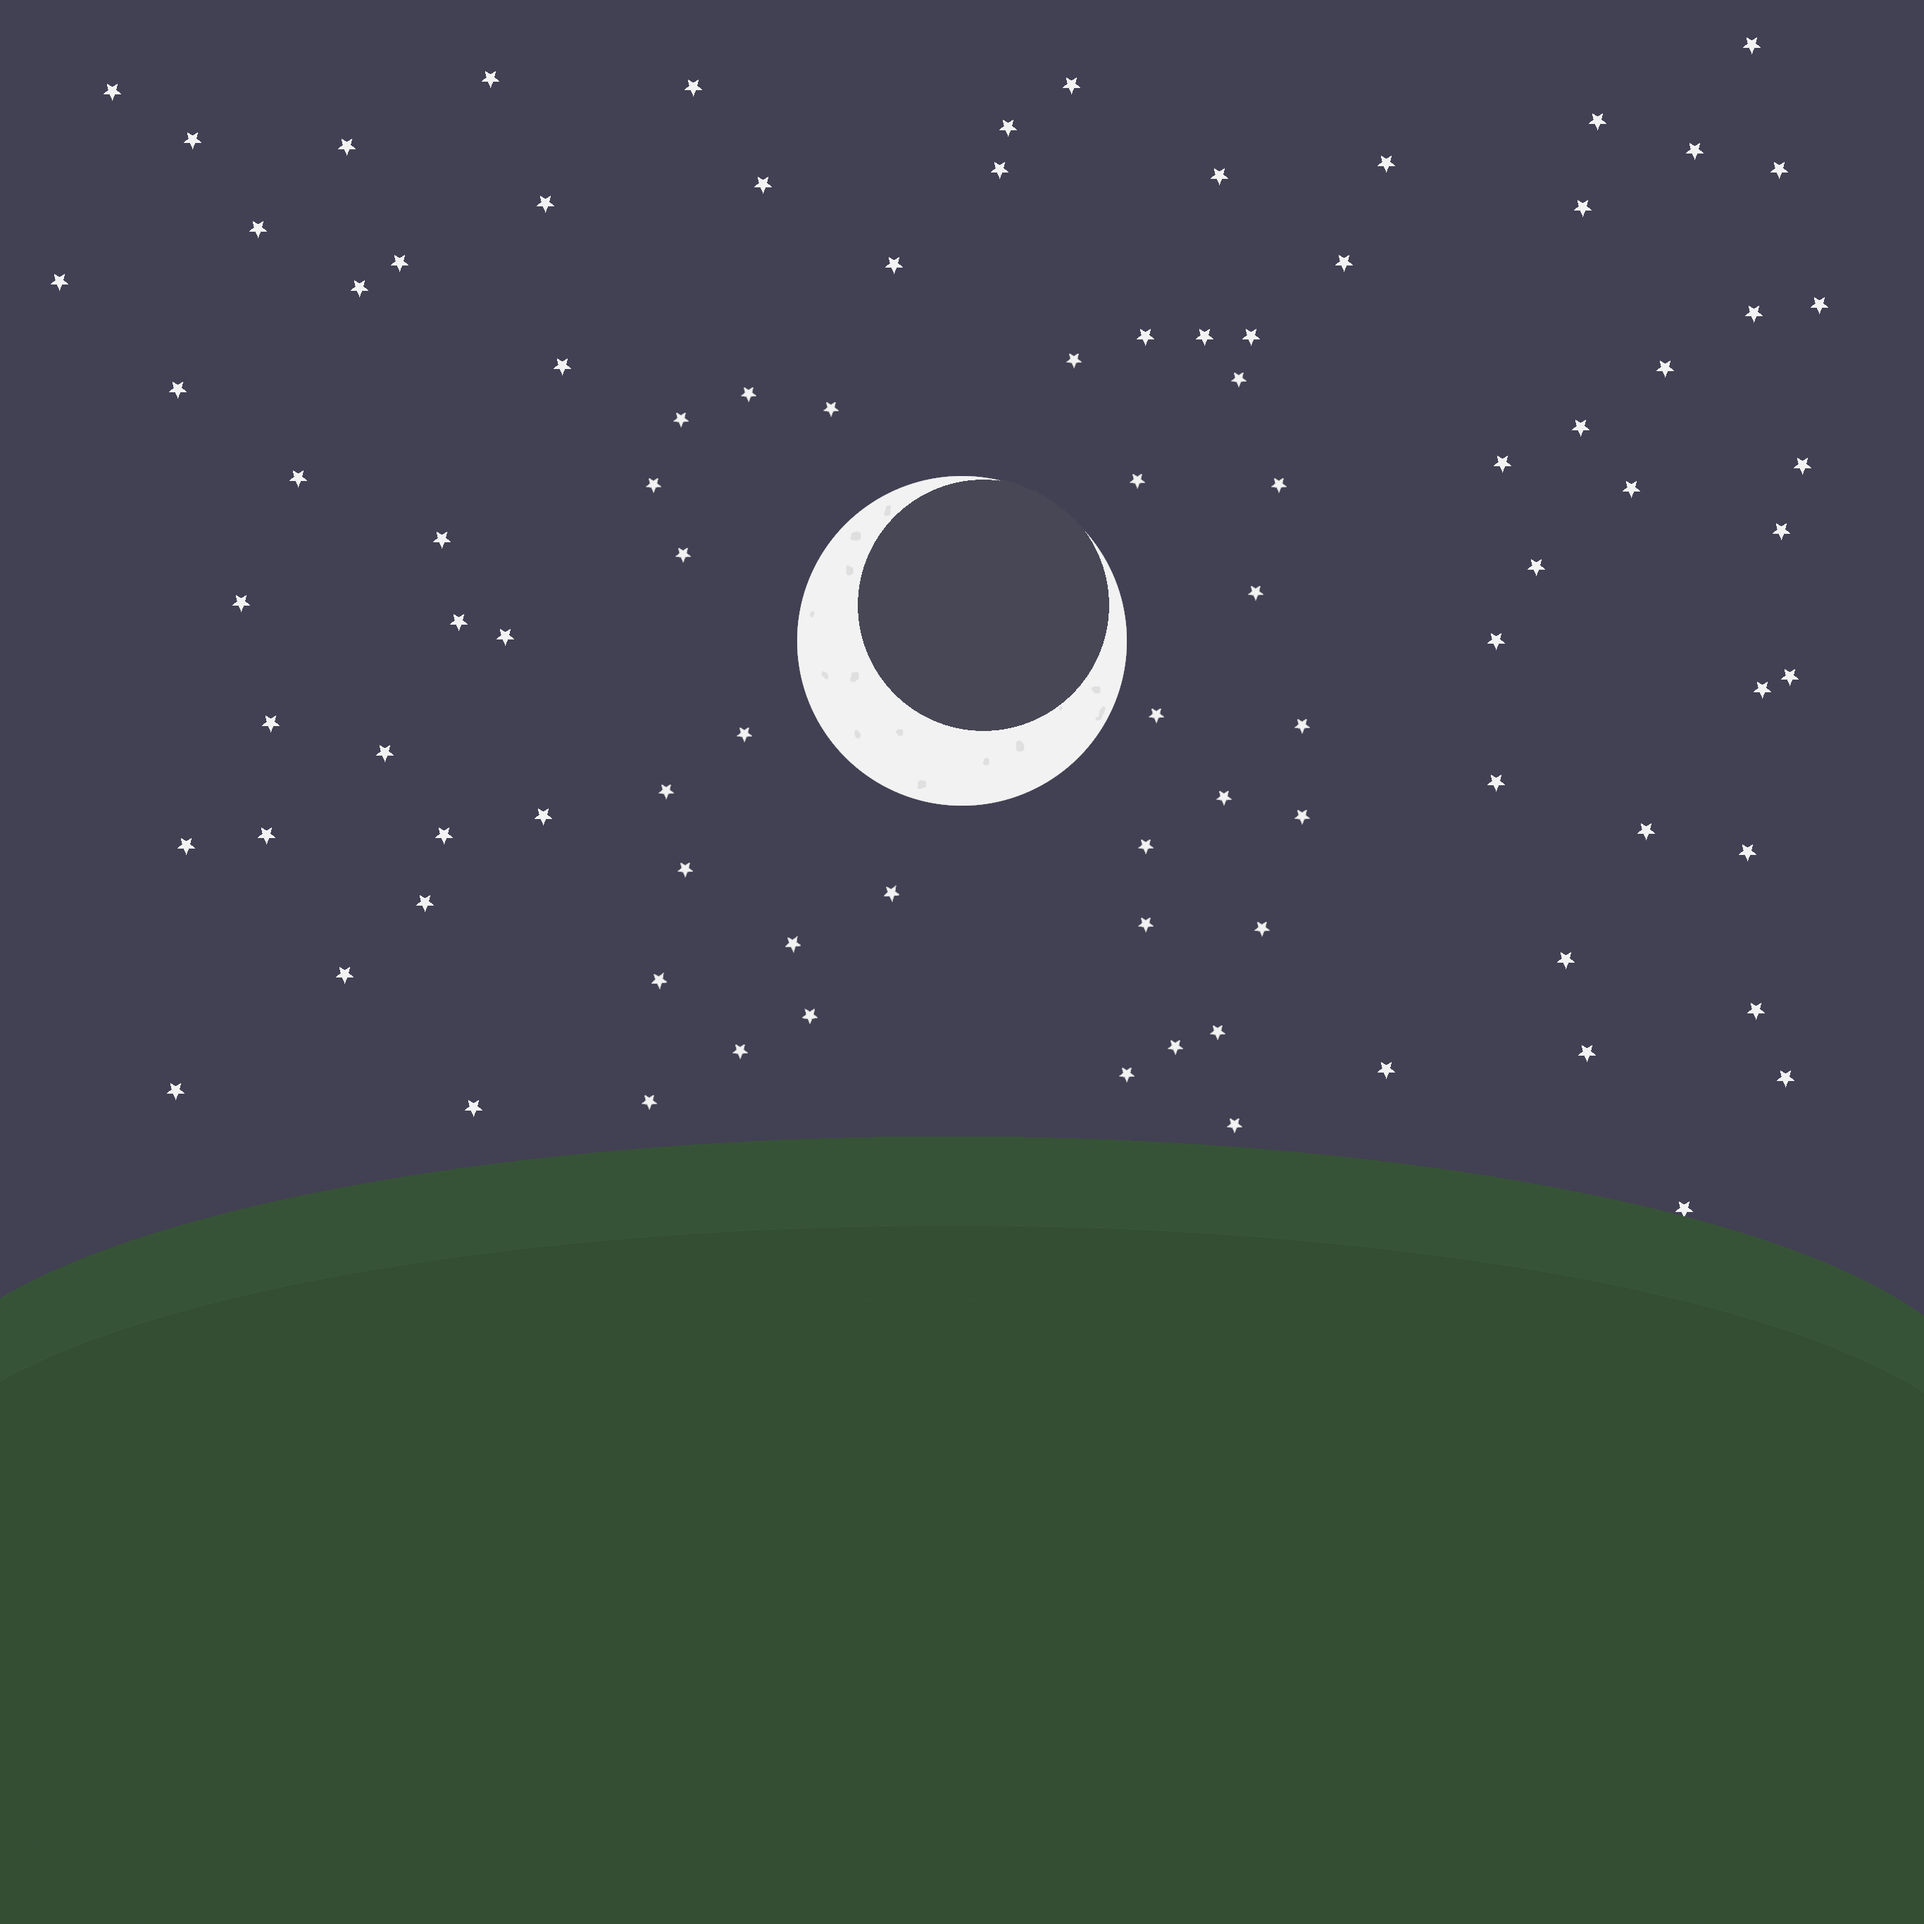
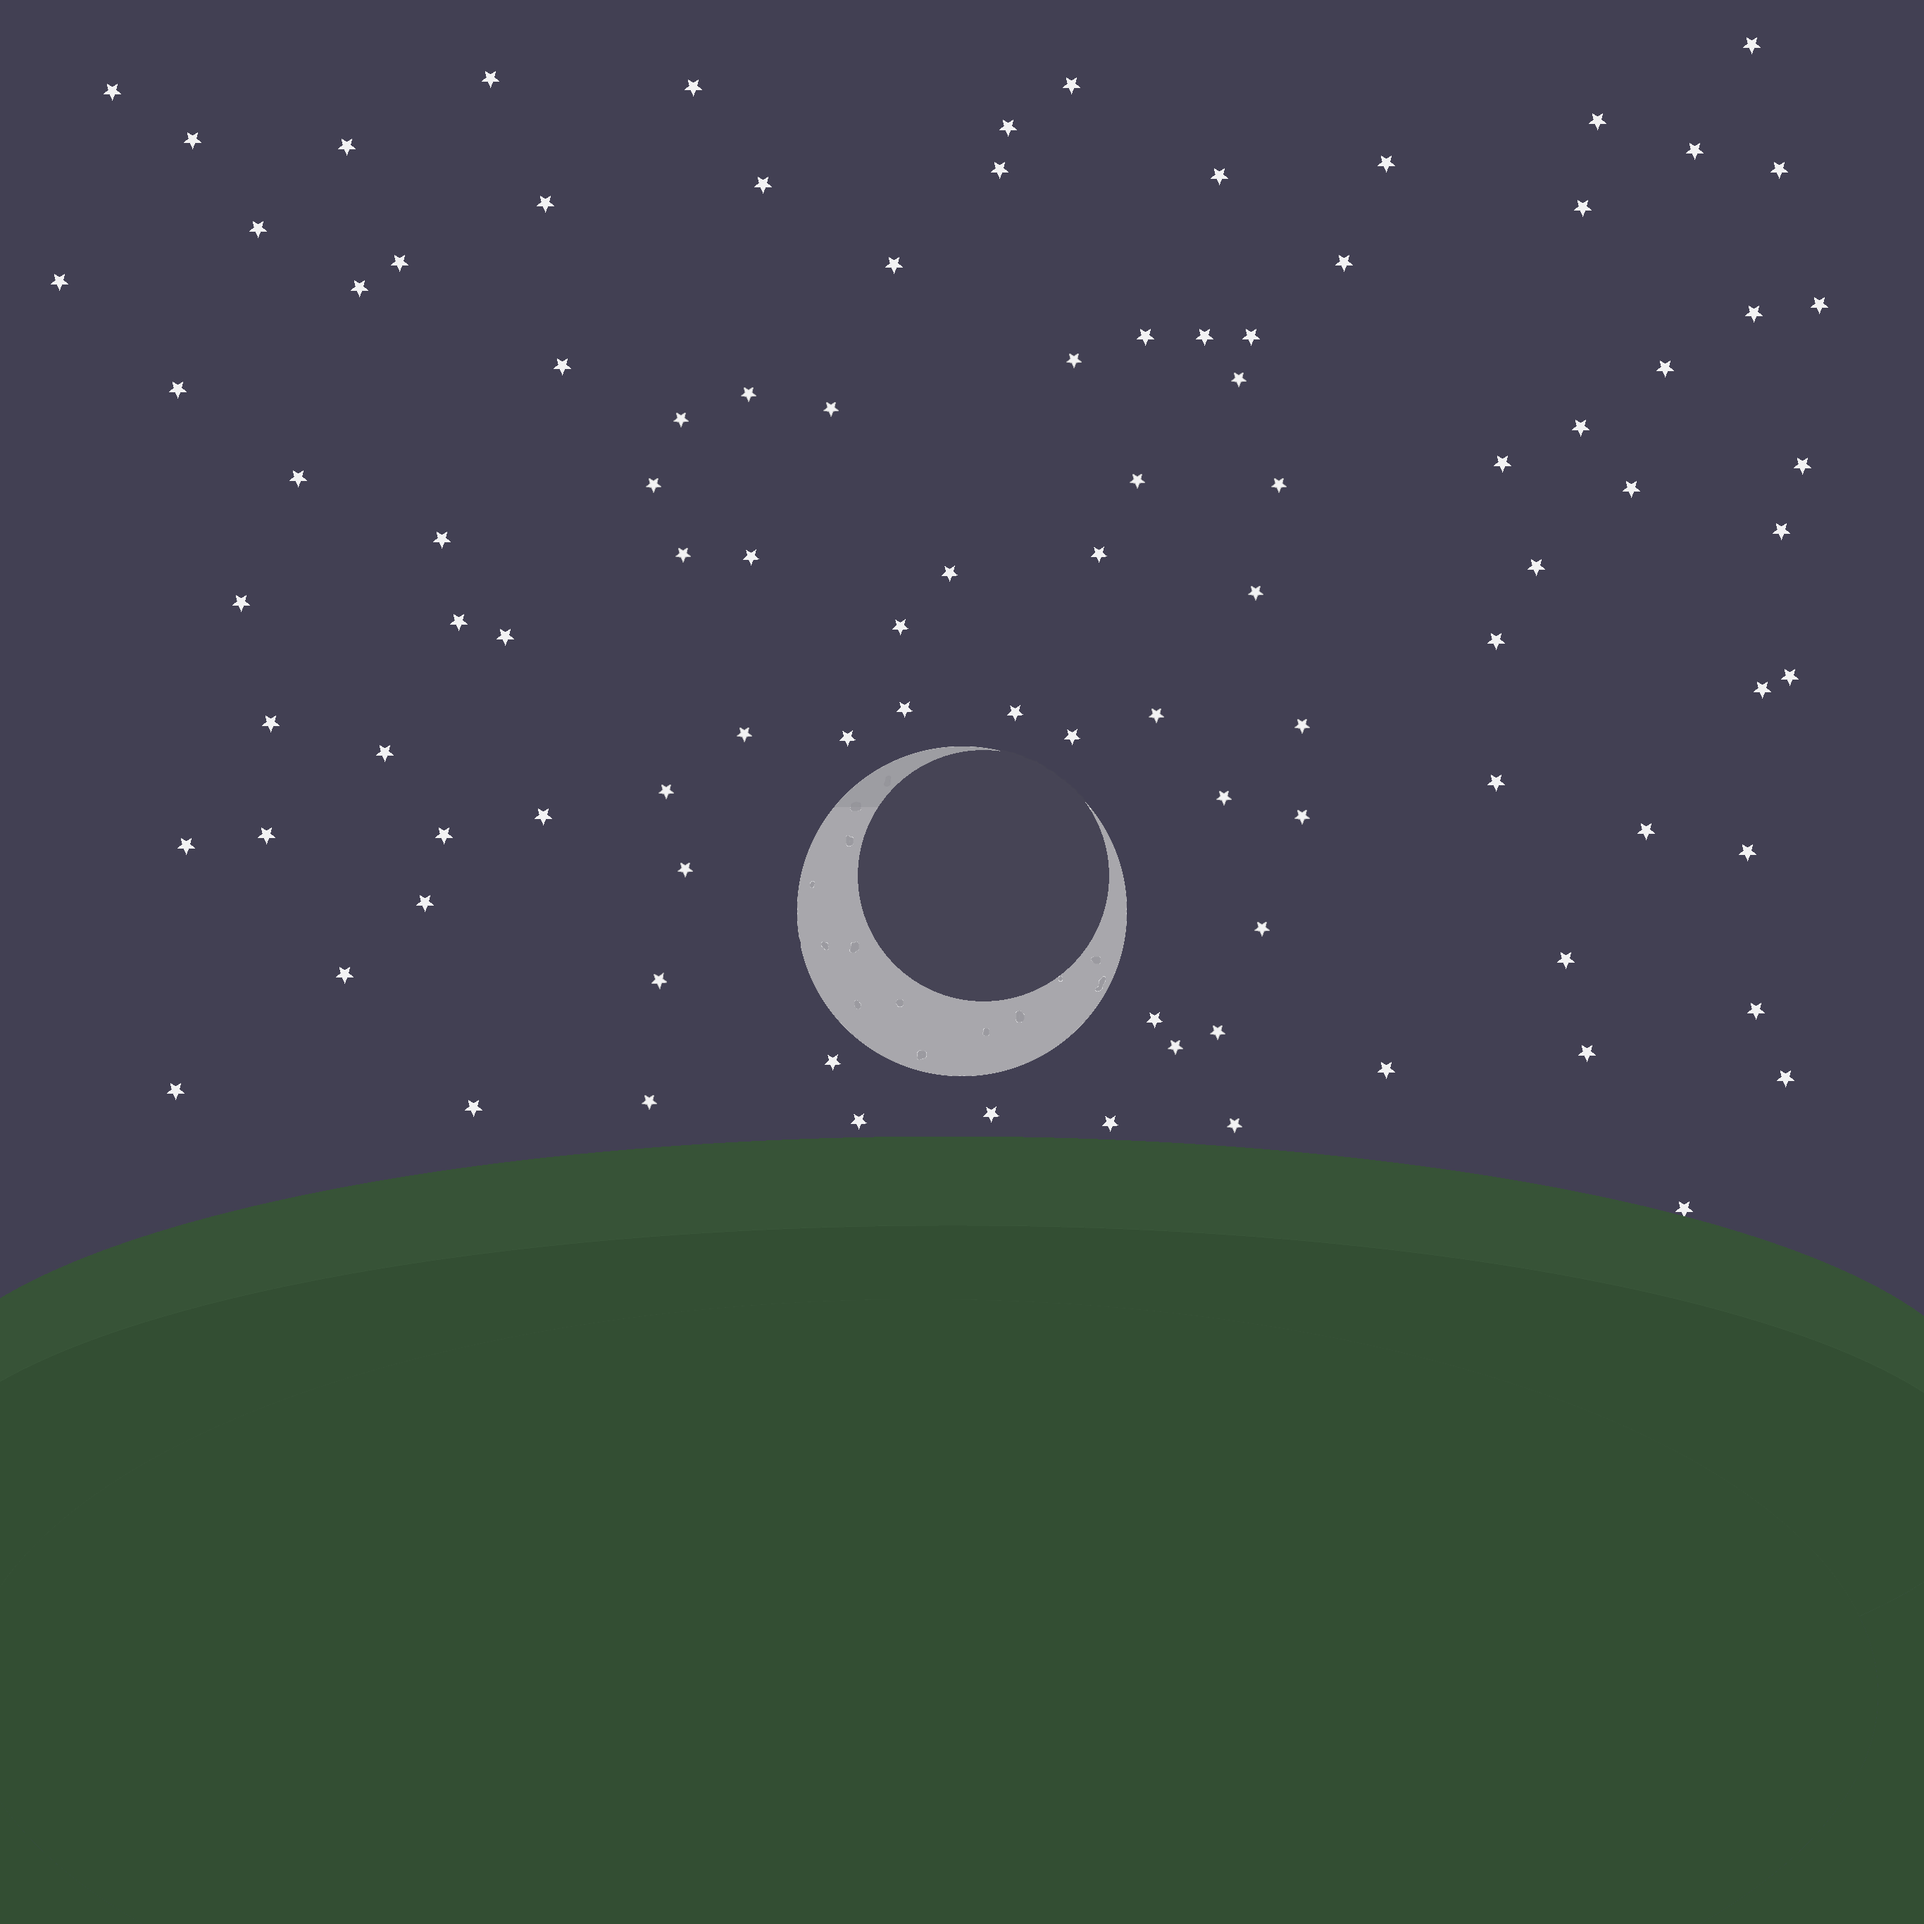
Dynamic Backgrounds
Set the basis for dynamic backgrounds. Also work on the Night background as well.

Changed region(s): [[0.4045, 0.2489, 0.5911, 0.56]]

diff --git a/src/app/home/home.page.html b/src/app/home/home.page.html
@@ -18,84 +18,84 @@
   </ion-toolbar>
 </ion-header>
 
-<ion-content fullscreen padding>
+<ion-content fullscreen padding [ngClass] = "getBackground()">
 	<p id="MyClockDisplay">Test if Works</p>
 	<p id="Current">Most Current Motivations</p>
 	<!--<p id="Clear">No Pending Motivations! Have a good day!</p>  This should appear when there are no pending motivations-->
 	<!-- <p id="No">You have no Motivations Currently... Lets make some!</p> This should appear when there are no motivations in the database-->
 	<!-- Insert boxes for 3 triggered motivations -->
-	<ion-grid>
+	<ion-grid [ngClass] = "getBackground()">
 		<ion-row>
 			<ion-col>
-				<div id="Name">
+				<div id="Name" [ngClass] = "getBackground()">
 					Name
 				</div>
 			</ion-col>
 			<ion-col id="Date">
-				<div id="Date">
+				<div id="Date" [ngClass] = "getBackground()">
 					MM/DD/YYYY
 				</div>
 			</ion-col>
 		</ion-row>
 		<ion-row>
 			<ion-col>
-				<div id="Time">
+				<div id="Time" [ngClass] = "getBackground()">
 					HH:MM
 				</div>
 			</ion-col>
 			<ion-col>
-				<ion-button id="Later" color= "warning">Maybe Later...</ion-button>
-				<ion-button id="DidIt" color= "newGreen">I Did it!</ion-button>
+				<ion-button id="Later" color= "warning" size="small">Maybe Later...</ion-button>
+				<ion-button id="DidIt" color= "newGreen" size="small">I Did it!</ion-button>
 			</ion-col>
 		</ion-row>
 	</ion-grid>
-	<ion-grid>
+	<ion-grid [ngClass] = "getBackground()">
 		<ion-row>
 			<ion-col>
-				<div id="Name">
+				<div id="Name" [ngClass] = "getBackground()">
 					Name
 				</div>
 			</ion-col>
 			<ion-col id="Date">
-				<div id="Date">
+				<div id="Date" [ngClass] = "getBackground()">
 					MM/DD/YYYY
 				</div>
 			</ion-col>
 		</ion-row>
 		<ion-row>
 			<ion-col>
-				<div id="Time">
+				<div id="Time" [ngClass] = "getBackground()">
 					HH:MM
 				</div>
 			</ion-col>
 			<ion-col>
-				<ion-button id="Later" color= "warning">Maybe Later...</ion-button>
-				<ion-button id="DidIt" color= "newGreen">I Did it!</ion-button>
+				<ion-button id="Later" color= "warning" size="small">Maybe Later...</ion-button>
+				<ion-button id="DidIt" color= "newGreen" size="small">I Did it!</ion-button>
 			</ion-col>
 		</ion-row>
 	</ion-grid>
-	<ion-grid>
+	<ion-grid [ngClass] = "getBackground()">
 		<ion-row>
 			<ion-col>
-				<div id="Name">
+				<div id="Name" [ngClass] = "getBackground()">
 					Name
 				</div>
 			</ion-col>
 			<ion-col id="Date">
-				<div id="Date">
+				<div id="Date" [ngClass] = "getBackground()">
 					MM/DD/YYYY
 				</div>
 			</ion-col>
 		</ion-row>
 		<ion-row>
 			<ion-col>
-				<div id="Time">
+				<div id="Time" [ngClass] = "getBackground()">
 					HH:MM
 				</div>
 			</ion-col>
 			<ion-col>
-				<ion-button id="Later" color= "warning">Maybe Later...</ion-button>
-				<ion-button id="DidIt" color= "newGreen">I Did it!</ion-button>
+				<ion-button id="Later" color= "warning" size="small">Maybe Later...</ion-button>
+				<ion-button id="DidIt" color= "newGreen" size="small">I Did it!</ion-button>
 			</ion-col>
 		</ion-row>
 	</ion-grid>

diff --git a/src/app/home/home.page.ts b/src/app/home/home.page.ts
@@ -9,14 +9,19 @@ import { StorageService } from '../storage.service';
 })
 export class HomePage implements OnInit{
 	motivations: any; //Used to grab the motivations
+	active: boolean; //Used to change Background
+	backgroundPic: String;
 	constructor(public menuCtrl: MenuController, public getStore: StorageService) {
 		this.motivations = getStore.getAllStoredMotivations();
 	}
 	toggleMenu(){
 		this.menuCtrl.toggle();
 	}
+	
 	ngOnInit() {this.showTime();}
 	showTime(){
+			this.active = true;
+			this.backgroundPic = "./assets/Sunset.png";
 			var date = new Date();
 			var h = date.getHours(); // 0 - 23
 			var m = date.getMinutes(); // 0 - 59
@@ -40,11 +45,44 @@ export class HomePage implements OnInit{
 				ms = m.toString();
 			}			
 			var time = hs + ":" + ms + " " + session;
-			document.getElementById("MyClockDisplay").innerText = time;
+			//document.getElementById("MyClockDisplay").innerText = time; Seems to cause Errors
 			document.getElementById("MyClockDisplay").textContent = time;
-			
+			if ((h >= 8 && session == "PM")||(h <= 8 && session == "AM")){
+				this.active = false; 
+				this.backgroundPic = "./assets/Night.png";
+			}
 			setInterval(this.showTime, 1000);
 			
 		}
-
+	showTimeMil(){
+		this.active = true;
+		this.backgroundPic = "./assets/Sunset.png";
+		var date = new Date();
+		var h = date.getHours(); // 0 - 23
+		var m = date.getMinutes(); // 0 - 59
+		var hs;
+		var ms;
+		hs = h.toString();
+		if(m < 10){ 
+			ms = "0" + m.toString();
+		} else {
+			ms = m.toString();
+		}			
+		var time = hs + ":" + ms;
+		//document.getElementById("MyClockDisplay").innerText = time; Seems to cause Errors
+		document.getElementById("MyClockDisplay").textContent = time;
+		if ((h >= 20)||(h <= 8)){
+			this.active = false; 
+			this.backgroundPic = "./assets/Night.png";
+		}
+		setInterval(this.showTime, 1000);
+			
+	}
+	getBackground(){
+			if (this.active != false){
+				return "Night";
+			} else {
+				return "Day";
+			}
+	}
 }

diff --git a/src/app/home/home.page.scss b/src/app/home/home.page.scss
@@ -1,10 +1,14 @@
 
 
 ion-content {
-	--background: url("../../assets/Sunset.png") no-repeat center center fixed;
 	background-size: auto;
-
-	}
+}
+ion-content.Day{
+	--background: url("../../assets/Sunset.png") no-repeat center center fixed;
+}
+ion-content.Night{
+	--background: url("../../assets/Night.png") no-repeat center center fixed;
+}
 
 ion-header::after {
 	background-image: none;
@@ -56,12 +60,22 @@ ion-title {
 }
 div {
 	font-size: 3vw;
+}
+div.Day{
 	color: #424242;
+}
+div.Night{
+	color: #dcdcdc;
 }
 ion-grid {
 	border-radius: .5em;
-	background-color: #ead0d077;
 	margin-bottom: 2em;
+}
+ion-grid.Day {
+	background-color: #ead0d077;
+}
+ion-grid.Night {
+	background-color: #747383aa;
 }
 ion-button {
 	--color: #000000 !important;
